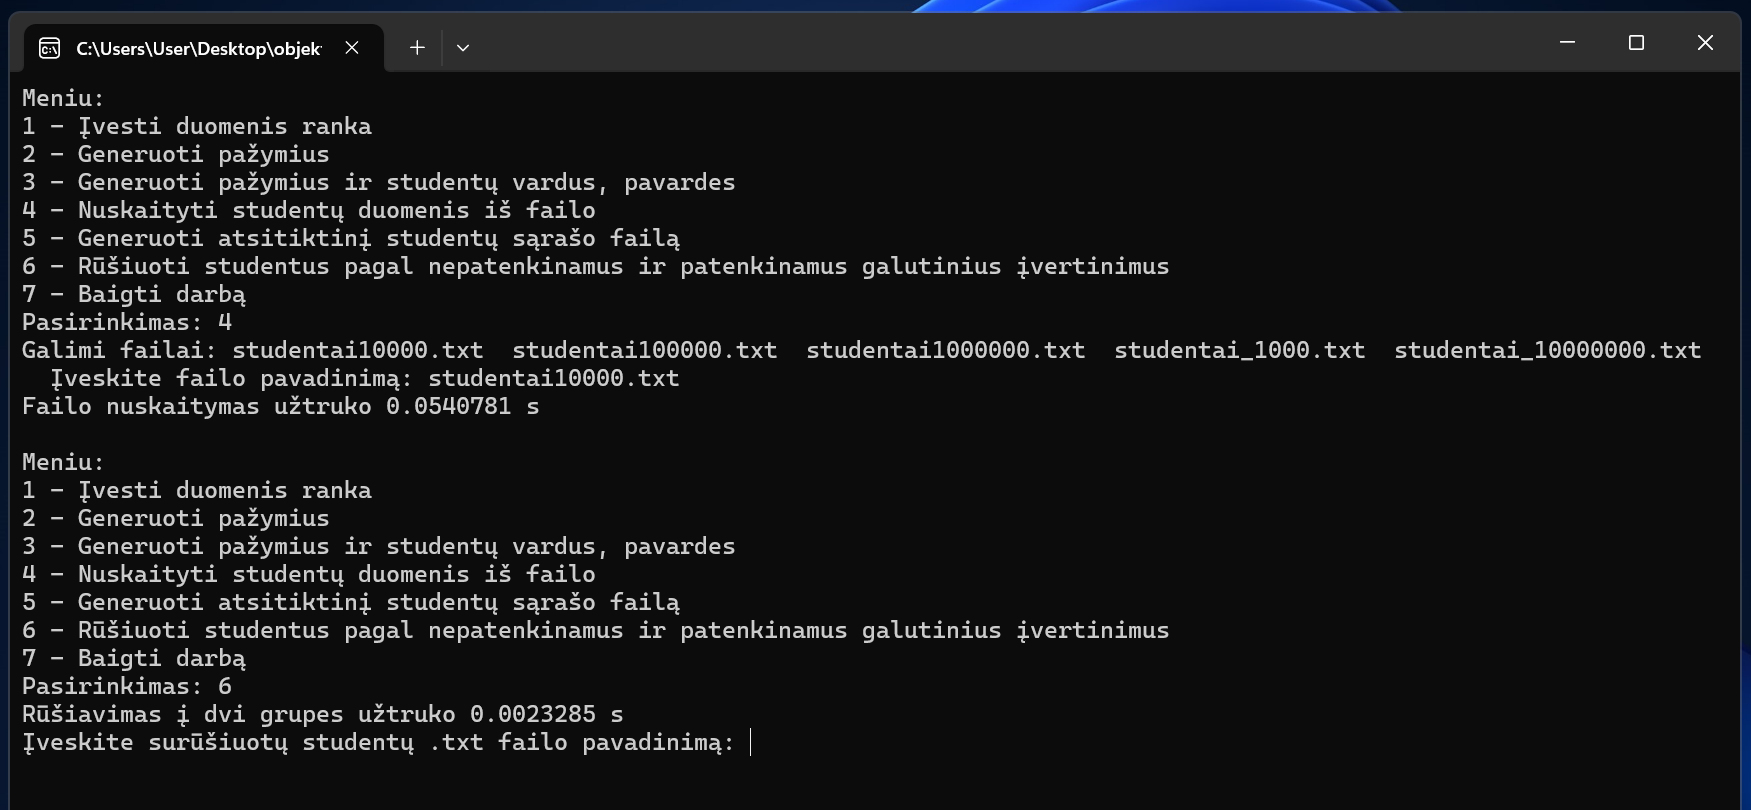
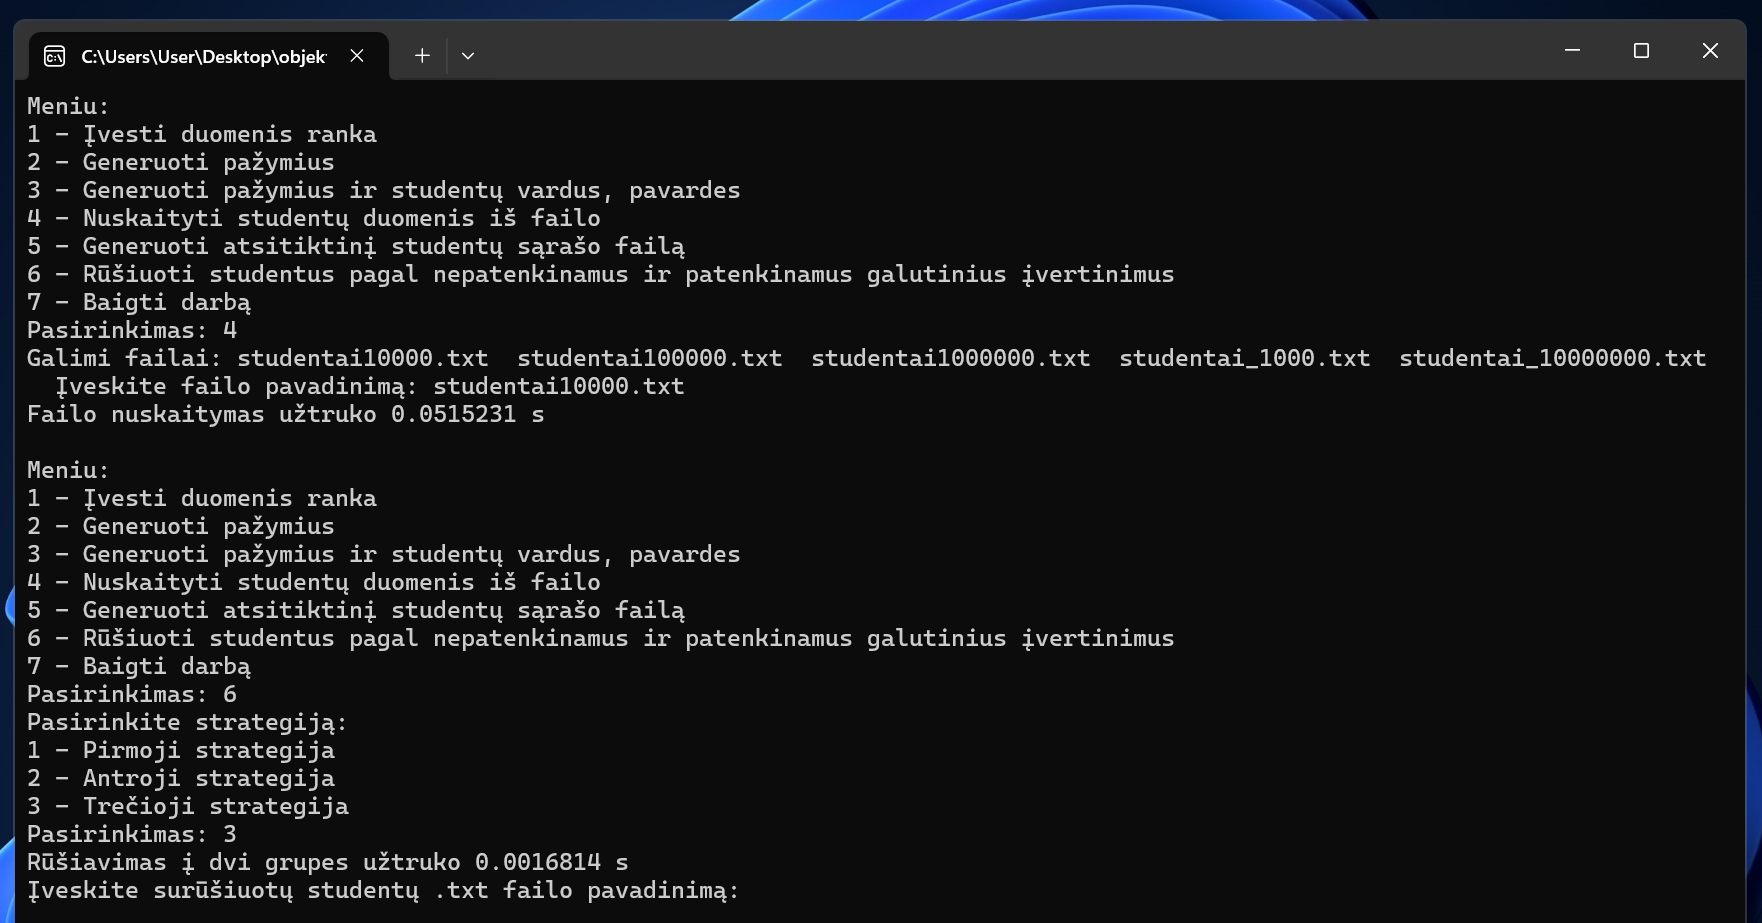
sujungtos visos strategijos į vieną versiją, kiti pakeitimai

Changed region(s): [[0.0, 0.0, 1.0, 1.0]]

diff --git a/vector/main.cpp b/vector/main.cpp
@@ -135,12 +135,42 @@ int main() {
             }
             case 6: {
                 //studentų rūšiavimas pagal galutinius įvertinimus
-                //demėsio: po šio case įvykdimo, bendrame studentai konteineryje lieka tik patenkinami studentai, todėl likusios programos veikimas bus neteisingas
+                std::cout << "Pasirinkite strategiją:\n1 - Pirmoji strategija\n2 - Antroji strategija\n3 - Trečioji strategija\nPasirinkimas: ";
+                int strategija = patikrintiSkaiciu(1, 3);
+
                 Timer t;
-                auto it = std::partition(studentai.begin(), studentai.end(), [](const Studentas& s) { return s.galutinisVid >= 5; });
-                std::vector<Studentas> nepatenkinami(it, studentai.end());
-                //std::vector<Studentas> nepatenkinami(std::make_move_iterator(it), std::make_move_iterator(studentai.end())); //greitesnė bei efektyvesnė atminties atžvilgiu versija, bet ne pagal reikalavimus
-                studentai.erase(it, studentai.end());
+                std::vector<Studentas> nepatenkinami;
+                switch (strategija) {
+                    case 1: {
+                        std::vector<Studentas> patenkinami;
+                        for (const auto& studentas : studentai) {
+                            if (studentas.galutinisVid < 5) {
+                                nepatenkinami.push_back(studentas);
+                            } else {
+                                patenkinami.push_back(studentas);
+                            }
+                        }
+                        studentai.swap(patenkinami);
+                        break;
+                    }
+                    case 2: {
+                        for (auto it = studentai.begin(); it != studentai.end();) {
+                            if (it->galutinisVid < 5) {
+                                nepatenkinami.push_back(std::move(*it));
+                                it = studentai.erase(it);
+                            } else {
+                                it++;
+                            }
+                        }
+                        break;
+                    }
+                    case 3: {
+                        auto it = std::partition(studentai.begin(), studentai.end(), [](const Studentas& s) { return s.galutinisVid >= 5; });
+                        nepatenkinami.assign(std::make_move_iterator(it), std::make_move_iterator(studentai.end()));
+                        studentai.erase(it, studentai.end());
+                        break;
+                    }
+                }
                 std::cout << "Rūšiavimas į dvi grupes užtruko " << t.elapsed() << " s\n";
                 timeSum += t.elapsed();
 
@@ -148,8 +178,8 @@ int main() {
                 std::string failoPavadinimas;
                 std::cin >> failoPavadinimas;
 
-                std::cout << "Ar norite rikiuoti surūšiuotų studentų sąrašą?\n1 - Taip\n2 - Ne\nPasirinkimas: ";
-                bool arRikiuoti = patikrintiSkaiciu(1, 2) == 1 ? true : false;
+                std::cout << "Ar norite rikiuoti visų studentų sąrašą? (t/n): ";
+                bool arRikiuoti = patikrintiTaipNe();
                 if (arRikiuoti) {
                     std::cout << "Rikiuoti studentus pagal:\n1 - Vardą\n2 - Pavardę\n3 - Galutinį (Vid.)\n4 - Galutinį (Med.)\nPasirinkimas: ";
                     int rikiavimoPasirinkimas = patikrintiSkaiciu(1, 4);
@@ -170,13 +200,16 @@ int main() {
                 std::cout << "Patenkinamų studentų įrašymas užtruko " << t4.elapsed() << " s\n";
                 timeSum += t4.elapsed();
 
+                std::cout << "Jungiami studentų konteineriai...\n";
+                std::move(nepatenkinami.begin(), nepatenkinami.end(), std::back_inserter(studentai));
+ 
                 std::cout << "Išvis sugaišta laiko (be įvesties): " << timeSum << " s\n";
                 break;
             }
             case 7: {
                 //darbo baigimas, rikiavimas
-                std::cout << "Ar norite rikiuoti visų studentų sąrašą?\n1 - Taip\n2 - Ne\nPasirinkimas: ";
-                bool arRikiuoti = patikrintiSkaiciu(1, 2) == 1 ? true : false;
+                std::cout << "Ar norite rikiuoti visų studentų sąrašą? (t/n): ";
+                bool arRikiuoti = patikrintiTaipNe();
                 if (arRikiuoti) {
                     std::cout << "Rikiuoti studentus pagal:\n1 - Vardą\n2 - Pavardę\n3 - Galutinį (Vid.)\n4 - Galutinį (Med.)\nPasirinkimas: ";
                     int rikiavimoPasirinkimas = patikrintiSkaiciu(1, 4);

diff --git a/deque/main.cpp b/deque/main.cpp
@@ -134,12 +134,42 @@ int main() {
             }
             case 6: {
                 //studentų rūšiavimas pagal galutinius įvertinimus
-                //demėsio: po šio case įvykdimo, bendrame studentai konteineryje lieka tik patenkinami studentai, todėl likusios programos veikimas bus neteisingas
+                std::cout << "Pasirinkite strategiją:\n1 - Pirmoji strategija\n2 - Antroji strategija\n3 - Trečioji strategija\nPasirinkimas: ";
+                int strategija = patikrintiSkaiciu(1, 3);
+
                 Timer t;
-                auto it = std::partition(studentai.begin(), studentai.end(), [](const Studentas& s) { return s.galutinisVid >= 5; });
-                //std::deque<Studentas> nepatenkinami(std::make_move_iterator(it), std::make_move_iterator(studentai.end())); //greitesnė bei efektyvesnė atminties atžvilgiu versija, bet ne pagal reikalavimus
-                std::deque<Studentas> nepatenkinami(it, studentai.end());
-                studentai.erase(it, studentai.end());
+                std::deque<Studentas> nepatenkinami;
+                switch (strategija) {
+                    case 1: {
+                        std::deque<Studentas> patenkinami;
+                        for (const auto& studentas : studentai) {
+                            if (studentas.galutinisVid < 5) {
+                                nepatenkinami.push_back(studentas);
+                            } else {
+                                patenkinami.push_back(studentas);
+                            }
+                        }
+                        studentai.swap(patenkinami);
+                        break;
+                    }
+                    case 2: {
+                        for (auto it = studentai.begin(); it != studentai.end();) {
+                            if (it->galutinisVid < 5) {
+                                nepatenkinami.push_back(std::move(*it));
+                                it = studentai.erase(it);
+                            } else {
+                                it++;
+                            }
+                        }
+                        break;
+                    }
+                    case 3: {
+                        auto it = std::partition(studentai.begin(), studentai.end(), [](const Studentas& s) { return s.galutinisVid >= 5; });
+                        nepatenkinami.assign(std::make_move_iterator(it), std::make_move_iterator(studentai.end()));
+                        studentai.erase(it, studentai.end());
+                        break;
+                    }
+                }
                 std::cout << "Rūšiavimas į dvi grupes užtruko " << t.elapsed() << " s\n";
                 timeSum += t.elapsed();
 
@@ -147,8 +177,8 @@ int main() {
                 std::string failoPavadinimas;
                 std::cin >> failoPavadinimas;
 
-                std::cout << "Ar norite rikiuoti surūšiuotų studentų sąrašą?\n1 - Taip\n2 - Ne\nPasirinkimas: ";
-                bool arRikiuoti = patikrintiSkaiciu(1, 2) == 1 ? true : false;
+                std::cout << "Ar norite rikiuoti visų studentų sąrašą? (t/n): ";
+                bool arRikiuoti = patikrintiTaipNe();
                 if (arRikiuoti) {
                     std::cout << "Rikiuoti studentus pagal:\n1 - Vardą\n2 - Pavardę\n3 - Galutinį (Vid.)\n4 - Galutinį (Med.)\nPasirinkimas: ";
                     int rikiavimoPasirinkimas = patikrintiSkaiciu(1, 4);
@@ -169,13 +199,16 @@ int main() {
                 std::cout << "Patenkinamų studentų įrašymas užtruko " << t4.elapsed() << " s\n";
                 timeSum += t4.elapsed();
 
+                std::cout << "Jungiami studentų konteineriai...\n";
+                std::move(nepatenkinami.begin(), nepatenkinami.end(), std::back_inserter(studentai));
+ 
                 std::cout << "Išvis sugaišta laiko (be įvesties): " << timeSum << " s\n";
                 break;
             }
             case 7: {
                 //darbo baigimas, rikiavimas
-                std::cout << "Ar norite rikiuoti visų studentų sąrašą?\n1 - Taip\n2 - Ne\nPasirinkimas: ";
-                bool arRikiuoti = patikrintiSkaiciu(1, 2) == 1 ? true : false;
+                std::cout << "Ar norite rikiuoti visų studentų sąrašą? (t/n): ";
+                bool arRikiuoti = patikrintiTaipNe();
                 if (arRikiuoti) {
                     std::cout << "Rikiuoti studentus pagal:\n1 - Vardą\n2 - Pavardę\n3 - Galutinį (Vid.)\n4 - Galutinį (Med.)\nPasirinkimas: ";
                     int rikiavimoPasirinkimas = patikrintiSkaiciu(1, 4);

diff --git a/list/main.cpp b/list/main.cpp
@@ -134,15 +134,40 @@ int main() {
             }
             case 6: {
                 //studentų rūšiavimas pagal galutinius įvertinimus
-                //demėsio: po šio case įvykdimo, bendrame studentai konteineryje lieka tik patenkinami studentai, todėl likusios programos veikimas bus neteisingas
+                std::cout << "Pasirinkite strategiją:\n1 - Pirmoji strategija\n2 - Antroji strategija\n3 - Trečioji strategija\nPasirinkimas: ";
+                int strategija = patikrintiSkaiciu(1, 3);
+
                 Timer t;
                 std::list<Studentas> nepatenkinami;
-                for (auto it = studentai.begin(); it != studentai.end();) {
-                    if (it->galutinisVid < 5) {
-                        nepatenkinami.push_back(std::move(*it));
-                        it = studentai.erase(it);
-                    } else {
-                        it++;
+                switch (strategija) {
+                    case 1: {
+                        std::list<Studentas> patenkinami;
+                        for (const auto& studentas : studentai) {
+                            if (studentas.galutinisVid < 5) {
+                                nepatenkinami.push_back(studentas);
+                            } else {
+                                patenkinami.push_back(studentas);
+                            }
+                        }
+                        studentai.swap(patenkinami);
+                        break;
+                    }
+                    case 2: {
+                        for (auto it = studentai.begin(); it != studentai.end();) {
+                            if (it->galutinisVid < 5) {
+                                nepatenkinami.push_back(std::move(*it));
+                                it = studentai.erase(it);
+                            } else {
+                                it++;
+                            }
+                        }
+                        break;
+                    }
+                    case 3: {
+                        auto it = std::partition(studentai.begin(), studentai.end(), [](const Studentas& s) { return s.galutinisVid >= 5; });
+                        nepatenkinami.assign(std::make_move_iterator(it), std::make_move_iterator(studentai.end()));
+                        studentai.erase(it, studentai.end());
+                        break;
                     }
                 }
                 std::cout << "Rūšiavimas į dvi grupes užtruko " << t.elapsed() << " s\n";
@@ -152,8 +177,8 @@ int main() {
                 std::string failoPavadinimas;
                 std::cin >> failoPavadinimas;
 
-                std::cout << "Ar norite rikiuoti surūšiuotų studentų sąrašą?\n1 - Taip\n2 - Ne\nPasirinkimas: ";
-                bool arRikiuoti = patikrintiSkaiciu(1, 2) == 1 ? true : false;
+                std::cout << "Ar norite rikiuoti visų studentų sąrašą? (t/n): ";
+                bool arRikiuoti = patikrintiTaipNe();
                 if (arRikiuoti) {
                     std::cout << "Rikiuoti studentus pagal:\n1 - Vardą\n2 - Pavardę\n3 - Galutinį (Vid.)\n4 - Galutinį (Med.)\nPasirinkimas: ";
                     int rikiavimoPasirinkimas = patikrintiSkaiciu(1, 4);
@@ -174,13 +199,16 @@ int main() {
                 std::cout << "Patenkinamų studentų įrašymas užtruko " << t4.elapsed() << " s\n";
                 timeSum += t4.elapsed();
 
+                std::cout << "Jungiami studentų konteineriai...\n";
+                std::move(nepatenkinami.begin(), nepatenkinami.end(), std::back_inserter(studentai));
+ 
                 std::cout << "Išvis sugaišta laiko (be įvesties): " << timeSum << " s\n";
                 break;
             }
             case 7: {
                 //darbo baigimas, rikiavimas
-                std::cout << "Ar norite rikiuoti visų studentų sąrašą?\n1 - Taip\n2 - Ne\nPasirinkimas: ";
-                bool arRikiuoti = patikrintiSkaiciu(1, 2) == 1 ? true : false;
+                std::cout << "Ar norite rikiuoti visų studentų sąrašą? (t/n): ";
+                bool arRikiuoti = patikrintiTaipNe();
                 if (arRikiuoti) {
                     std::cout << "Rikiuoti studentus pagal:\n1 - Vardą\n2 - Pavardę\n3 - Galutinį (Vid.)\n4 - Galutinį (Med.)\nPasirinkimas: ";
                     int rikiavimoPasirinkimas = patikrintiSkaiciu(1, 4);

diff --git a/deque/funkcijos.cpp b/deque/funkcijos.cpp
@@ -29,6 +29,20 @@ int patikrintiSkaiciu(int maziausias, int didziausias) {
     return skaicius;
 }
 
+bool patikrintiTaipNe() {
+    std::string ivestis;
+    while (true) {
+        if (std::cin.peek() == '\n') {
+            std::cin.ignore();
+        }
+        std::getline(std::cin, ivestis);
+        if (ivestis == "t" || ivestis == "n") {
+            return ivestis == "t";
+        }
+        std::cout << "Įvesta reikšmė nėra 't' arba 'n', bandykite dar kartą: ";
+    }
+}
+
 int generuotiAtsitiktiniSkaiciu(int maziausias, int didziausias) {
     static std::random_device rd;
     static std::mt19937 gen(rd());

diff --git a/list/funkcijos.cpp b/list/funkcijos.cpp
@@ -29,6 +29,20 @@ int patikrintiSkaiciu(int maziausias, int didziausias) {
     return skaicius;
 }
 
+bool patikrintiTaipNe() {
+    std::string ivestis;
+    while (true) {
+        if (std::cin.peek() == '\n') {
+            std::cin.ignore();
+        }
+        std::getline(std::cin, ivestis);
+        if (ivestis == "t" || ivestis == "n") {
+            return ivestis == "t";
+        }
+        std::cout << "Įvesta reikšmė nėra 't' arba 'n', bandykite dar kartą: ";
+    }
+}
+
 int generuotiAtsitiktiniSkaiciu(int maziausias, int didziausias) {
     static std::random_device rd;
     static std::mt19937 gen(rd());

diff --git a/vector/funkcijos.cpp b/vector/funkcijos.cpp
@@ -29,6 +29,20 @@ int patikrintiSkaiciu(int maziausias, int didziausias) {
     return skaicius;
 }
 
+bool patikrintiTaipNe() {
+    std::string ivestis;
+    while (true) {
+        if (std::cin.peek() == '\n') {
+            std::cin.ignore();
+        }
+        std::getline(std::cin, ivestis);
+        if (ivestis == "t" || ivestis == "n") {
+            return ivestis == "t";
+        }
+        std::cout << "Įvesta reikšmė nėra 't' arba 'n', bandykite dar kartą: ";
+    }
+}
+
 int generuotiAtsitiktiniSkaiciu(int maziausias, int didziausias) {
     static std::random_device rd;
     static std::mt19937 gen(rd());

diff --git a/vector/funkcijos.h b/vector/funkcijos.h
@@ -15,6 +15,7 @@
 #include <iomanip>
 
 int patikrintiSkaiciu(int maziausias, int didziausias);
+bool patikrintiTaipNe();
 int generuotiAtsitiktiniSkaiciu(int maziausias, int didziausias);
 void skaitytiIsFailo(std::vector<Studentas>& studentai, const std::string& failoPavadinimas);
 void irasytiStudentuDuomenis(const std::string& failoPavadinimas, const std::vector<Studentas>& studentai);

diff --git a/deque/funkcijos.h b/deque/funkcijos.h
@@ -15,6 +15,7 @@
 #include <iomanip>
 
 int patikrintiSkaiciu(int maziausias, int didziausias);
+bool patikrintiTaipNe();
 int generuotiAtsitiktiniSkaiciu(int maziausias, int didziausias);
 void skaitytiIsFailo(std::deque<Studentas>& studentai, const std::string& failoPavadinimas);
 void irasytiStudentuDuomenis(const std::string& failoPavadinimas, const std::deque<Studentas>& studentai);

diff --git a/list/funkcijos.h b/list/funkcijos.h
@@ -15,6 +15,7 @@
 #include <iomanip>
 
 int patikrintiSkaiciu(int maziausias, int didziausias);
+bool patikrintiTaipNe();
 int generuotiAtsitiktiniSkaiciu(int maziausias, int didziausias);
 void skaitytiIsFailo(std::list<Studentas>& studentai, const std::string& failoPavadinimas);
 void irasytiStudentuDuomenis(const std::string& failoPavadinimas, const std::list<Studentas>& studentai);

diff --git a/README.md b/README.md
@@ -55,8 +55,8 @@ Kiekvieno programos paleidimo tyrimų metu nuotraukas galite matyti [čia](https
 Testavimas buvo atliktas su failais:
 - `studentai_1000.txt` - 1k stud., 15 n.d., 197 KB (iš savos atsitiktinių studentų failo generavimo funkcijos)
 - `studentai10000.txt` - 10k stud., 15 n.d., 2,022 KB (iš anksto generuotas, patalpintas VMA)
-- `studentai100000.txt` - 100k stud., 15 n.d., 25,098 KB (iš anksto generuotas, patalpintas VMA)
-- `studentai1000000.txt` - 1 mil. stud., 15 n.d., 124,024 KB (iš anksto generuotas, patalpintas VMA)
+- `studentai100000.txt` - 100k stud., 20 n.d., 25,098 KB (iš anksto generuotas, patalpintas VMA)
+- `studentai1000000.txt` - 1 mil. stud., 7 n.d., 124,024 KB (iš anksto generuotas, patalpintas VMA)
 - `studentai_10000000.txt` - 10 mil. stud., 15 n.d., 1,962,891 KB (iš savos atsitiktinių studentų failo generavimo funkcijos)
 
 # Testavimo rezultatai (v1.0)
@@ -130,22 +130,19 @@ Testavimas buvo atliktas su failais:
 
 ### 3 strategija - naudojamos optimizacijos 2-ai strategijai pagerinti
 
-Kadangi 1-osios strategijos `std::vector` ir `std::deque` konteinerių veikimą pateiktais algoritmais nelabai būtų galima pagreitinti (nors `std::move()` pagreitintų veikimą, tačiau tuo atvejų būtų pažeidžiamas reikalavimas, kad studentų konteineryje turi likti visi studentai, nes nėra daromos jų kopijos), pasirinkau optimizuoti 2-ąją strategiją, nes ši iš pradžių buvo itin lėta.
+Kadangi 1-osios strategijos `std::vector` ir `std::deque` konteinerių veikimą **pateiktais** algoritmais nelabai būtų galima pagreitinti, pasirinkau optimizuoti 2-ąją strategiją, nes ši iš pradžių buvo itin lėta.
 
-Optimizacijai panaudojau `std::partition` algoritmą, kuris su predikatu pertvarko vektoriaus elementus taip, kad patenkinami būtų priekyje, o nepatenkinami gale. Tokiu būdu išvengiama `erase` operacijos, kuri šiems konteineriams yra brangi, nes reikia pertvarkyti visus elementus taip, kad būtų užpildomas naujai atsiradęs tarpas.
+Optimizacijai panaudojau `std::partition` algoritmą, kuris su predikatu pertvarko vektoriaus elementus taip, kad patenkinami būtų priekyje, o nepatenkinami gale. Tokiu būdu išvengiama pakartotinų `erase` operacijų, kuri šiems konteineriams yra brangi, nes reikia pertvarkyti visus elementus taip, kad būtų užpildomas naujai atsiradęs tarpas. Taip pat konteinerio elementai yra perkeliami naudojant `std::make_move_iterator`, kad nereikėtų jų kopijuoti.
 
-`std::list` liko nepakitęs, nes iš pateiktų algoritmų neradau kuris paspartintų jo rūšiavimą, todėl jo ir netestavau.
+`std::list` konteineriui taip pat panaudojau `std::partition` algoritmą, tačiau tai nebuvo efektyviau palyginus su 2-ąja strategija.
 
-| Failas               | std::vector | std::deque |
-|----------------------|-------------|------------|
-| studentai_1000.txt   | 0.0003065   | 0.0003005  |
-| studentai10000.txt   | 0.0023285   | 0.0030482  |
-| studentai100000.txt  | 0.0341213   | 0.0427427  |
-| studentai1000000.txt | 0.246882    | 0.365215   |
-| studentai_1000000.txt| 6.66241     | 4.2805     |
-
-`std::move()` šiuo atveju dar paspartintų veikimą, tačiau jo nenaudojau, nes jo nėra tarp pateiktų algoritmų.
-
+| Failas               | std::vector | std::list  | std::deque |
+|----------------------|-------------|------------|------------|
+| studentai_1000.txt   | 0.0001595   | 0.0002096  | 0.000229   |
+| studentai10000.txt   | 0.0016814   | 0.0021475  | 0.0020181  |
+| studentai100000.txt  | 0.0172146   | 0.0208541  | 0.0218965  |
+| studentai1000000.txt | 0.132258    | 0.194196   | 0.197143   |
+| studentai_1000000.txt| 1.33541     | 1.81953    | 1.93628    |
 
 # Testavimo rezultatai (SENA VERSIJA - v0.4)
 ## 1-as tyrimas – atsitiktinių studentų failų generavimas
